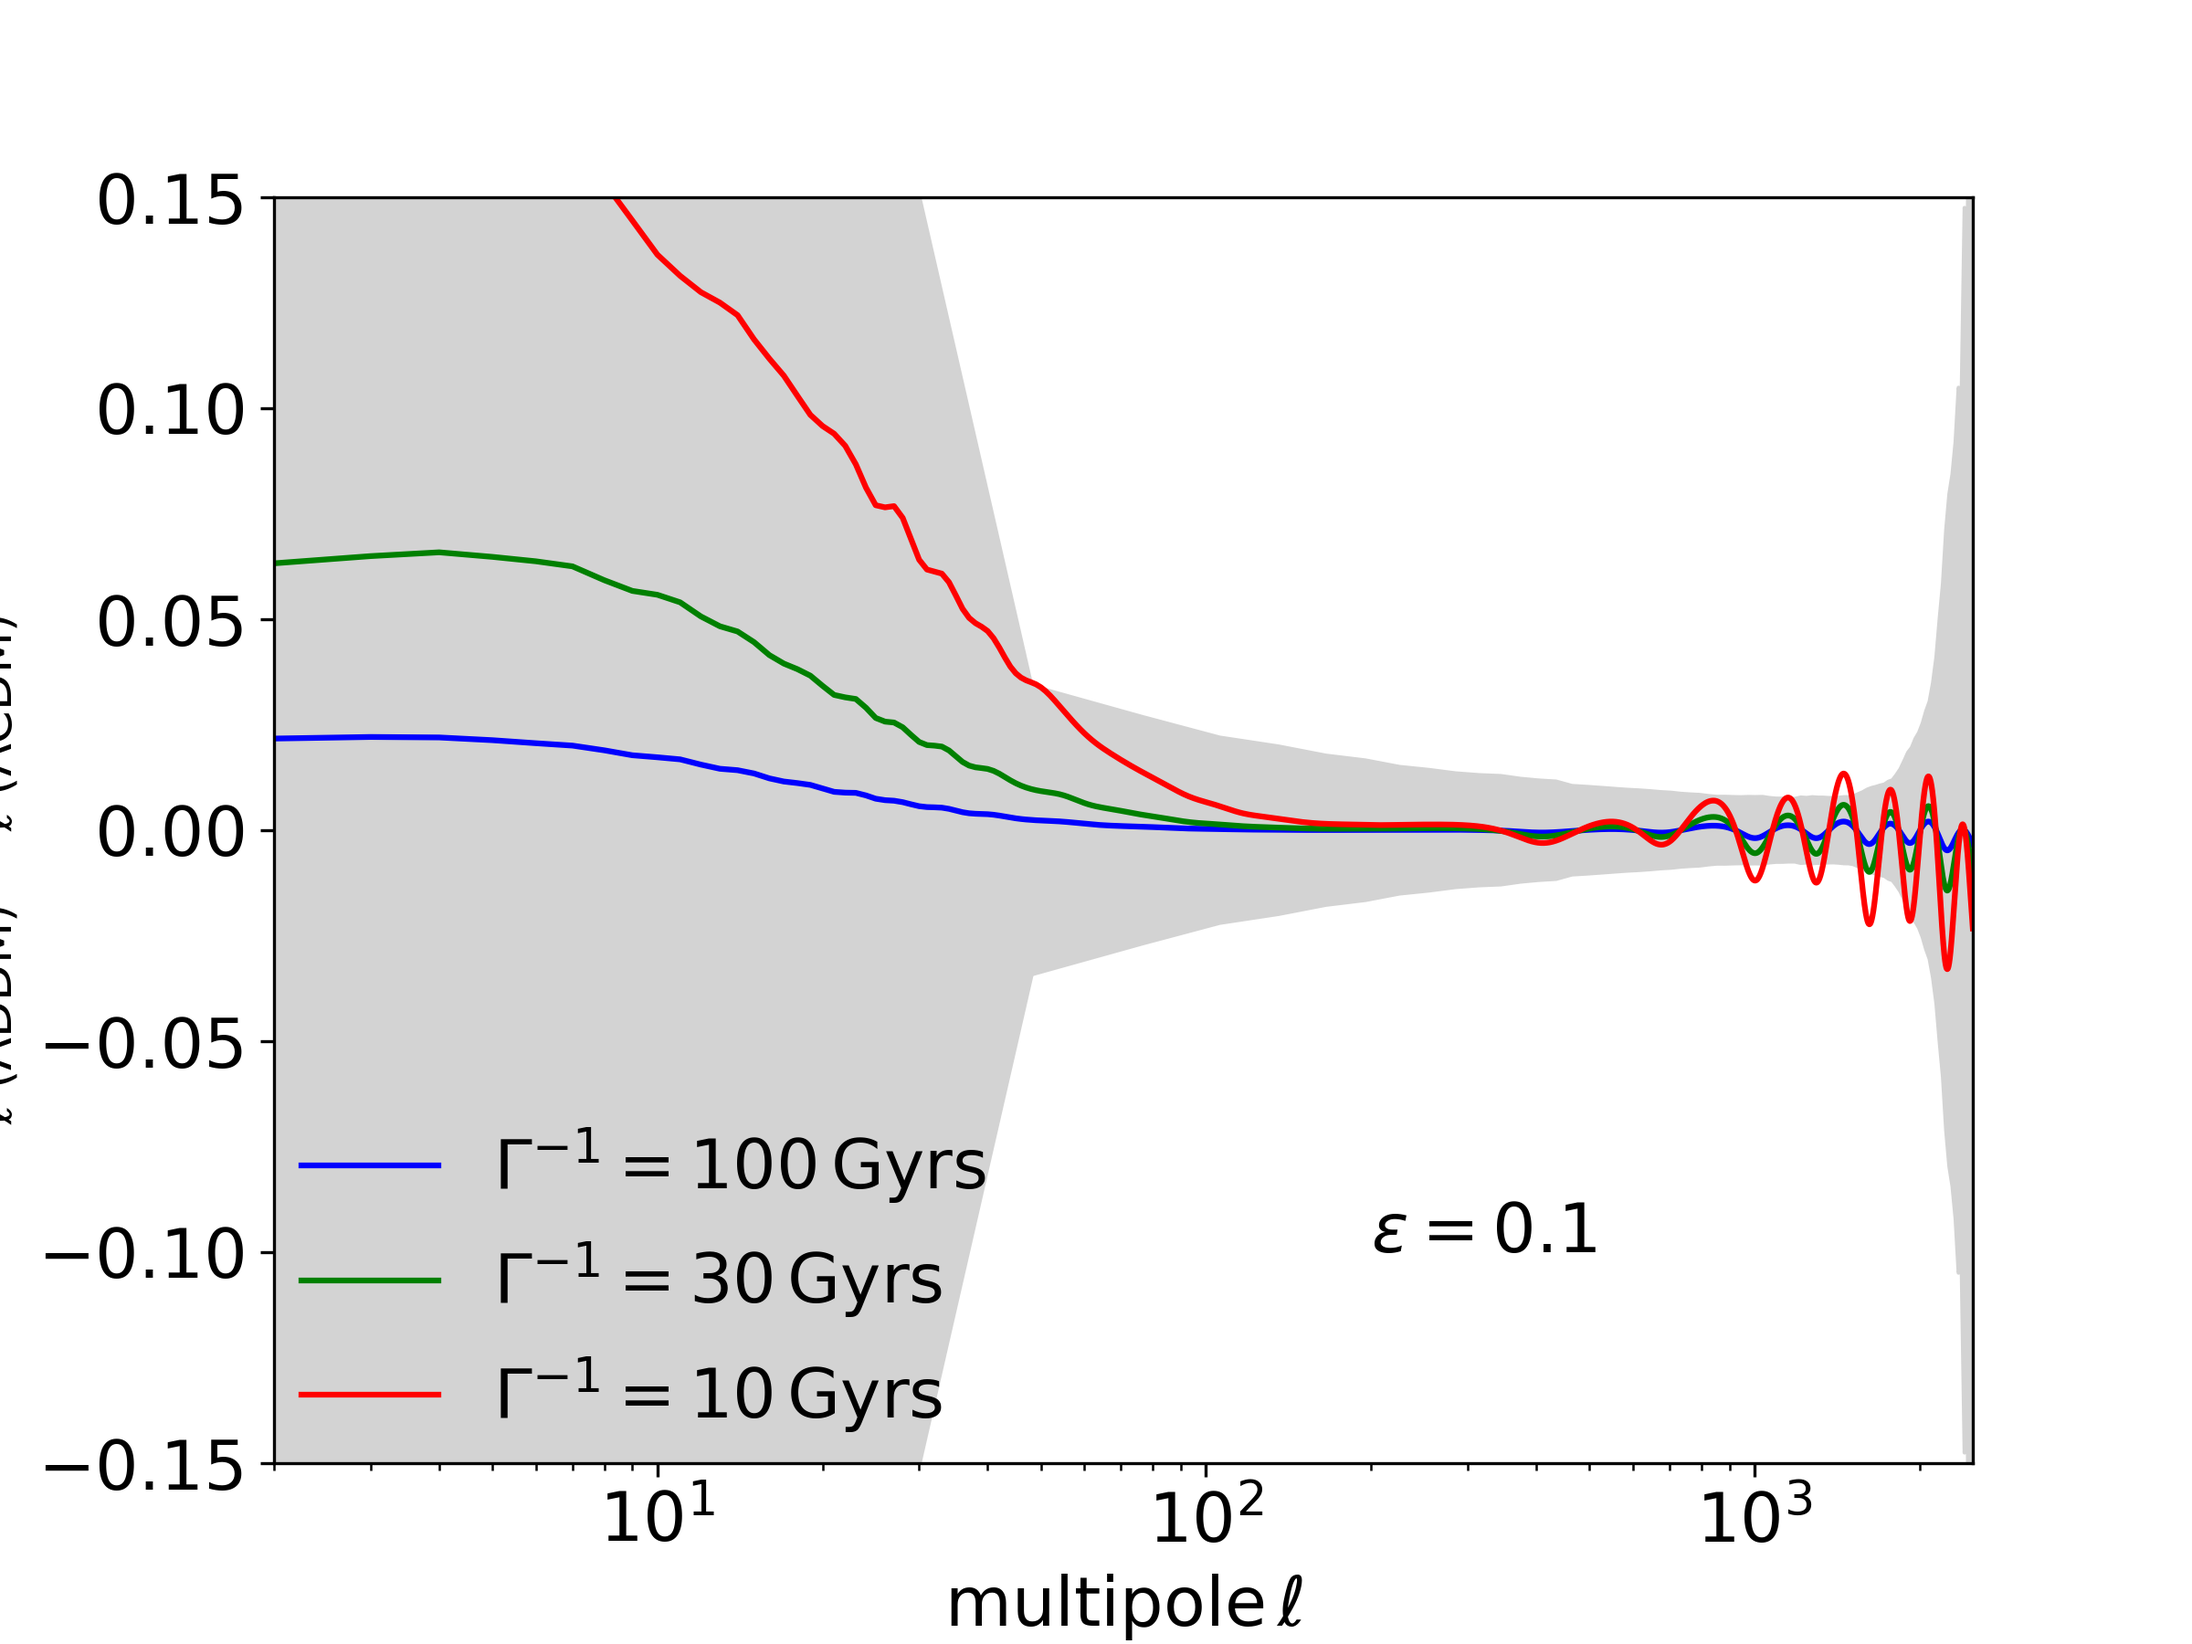
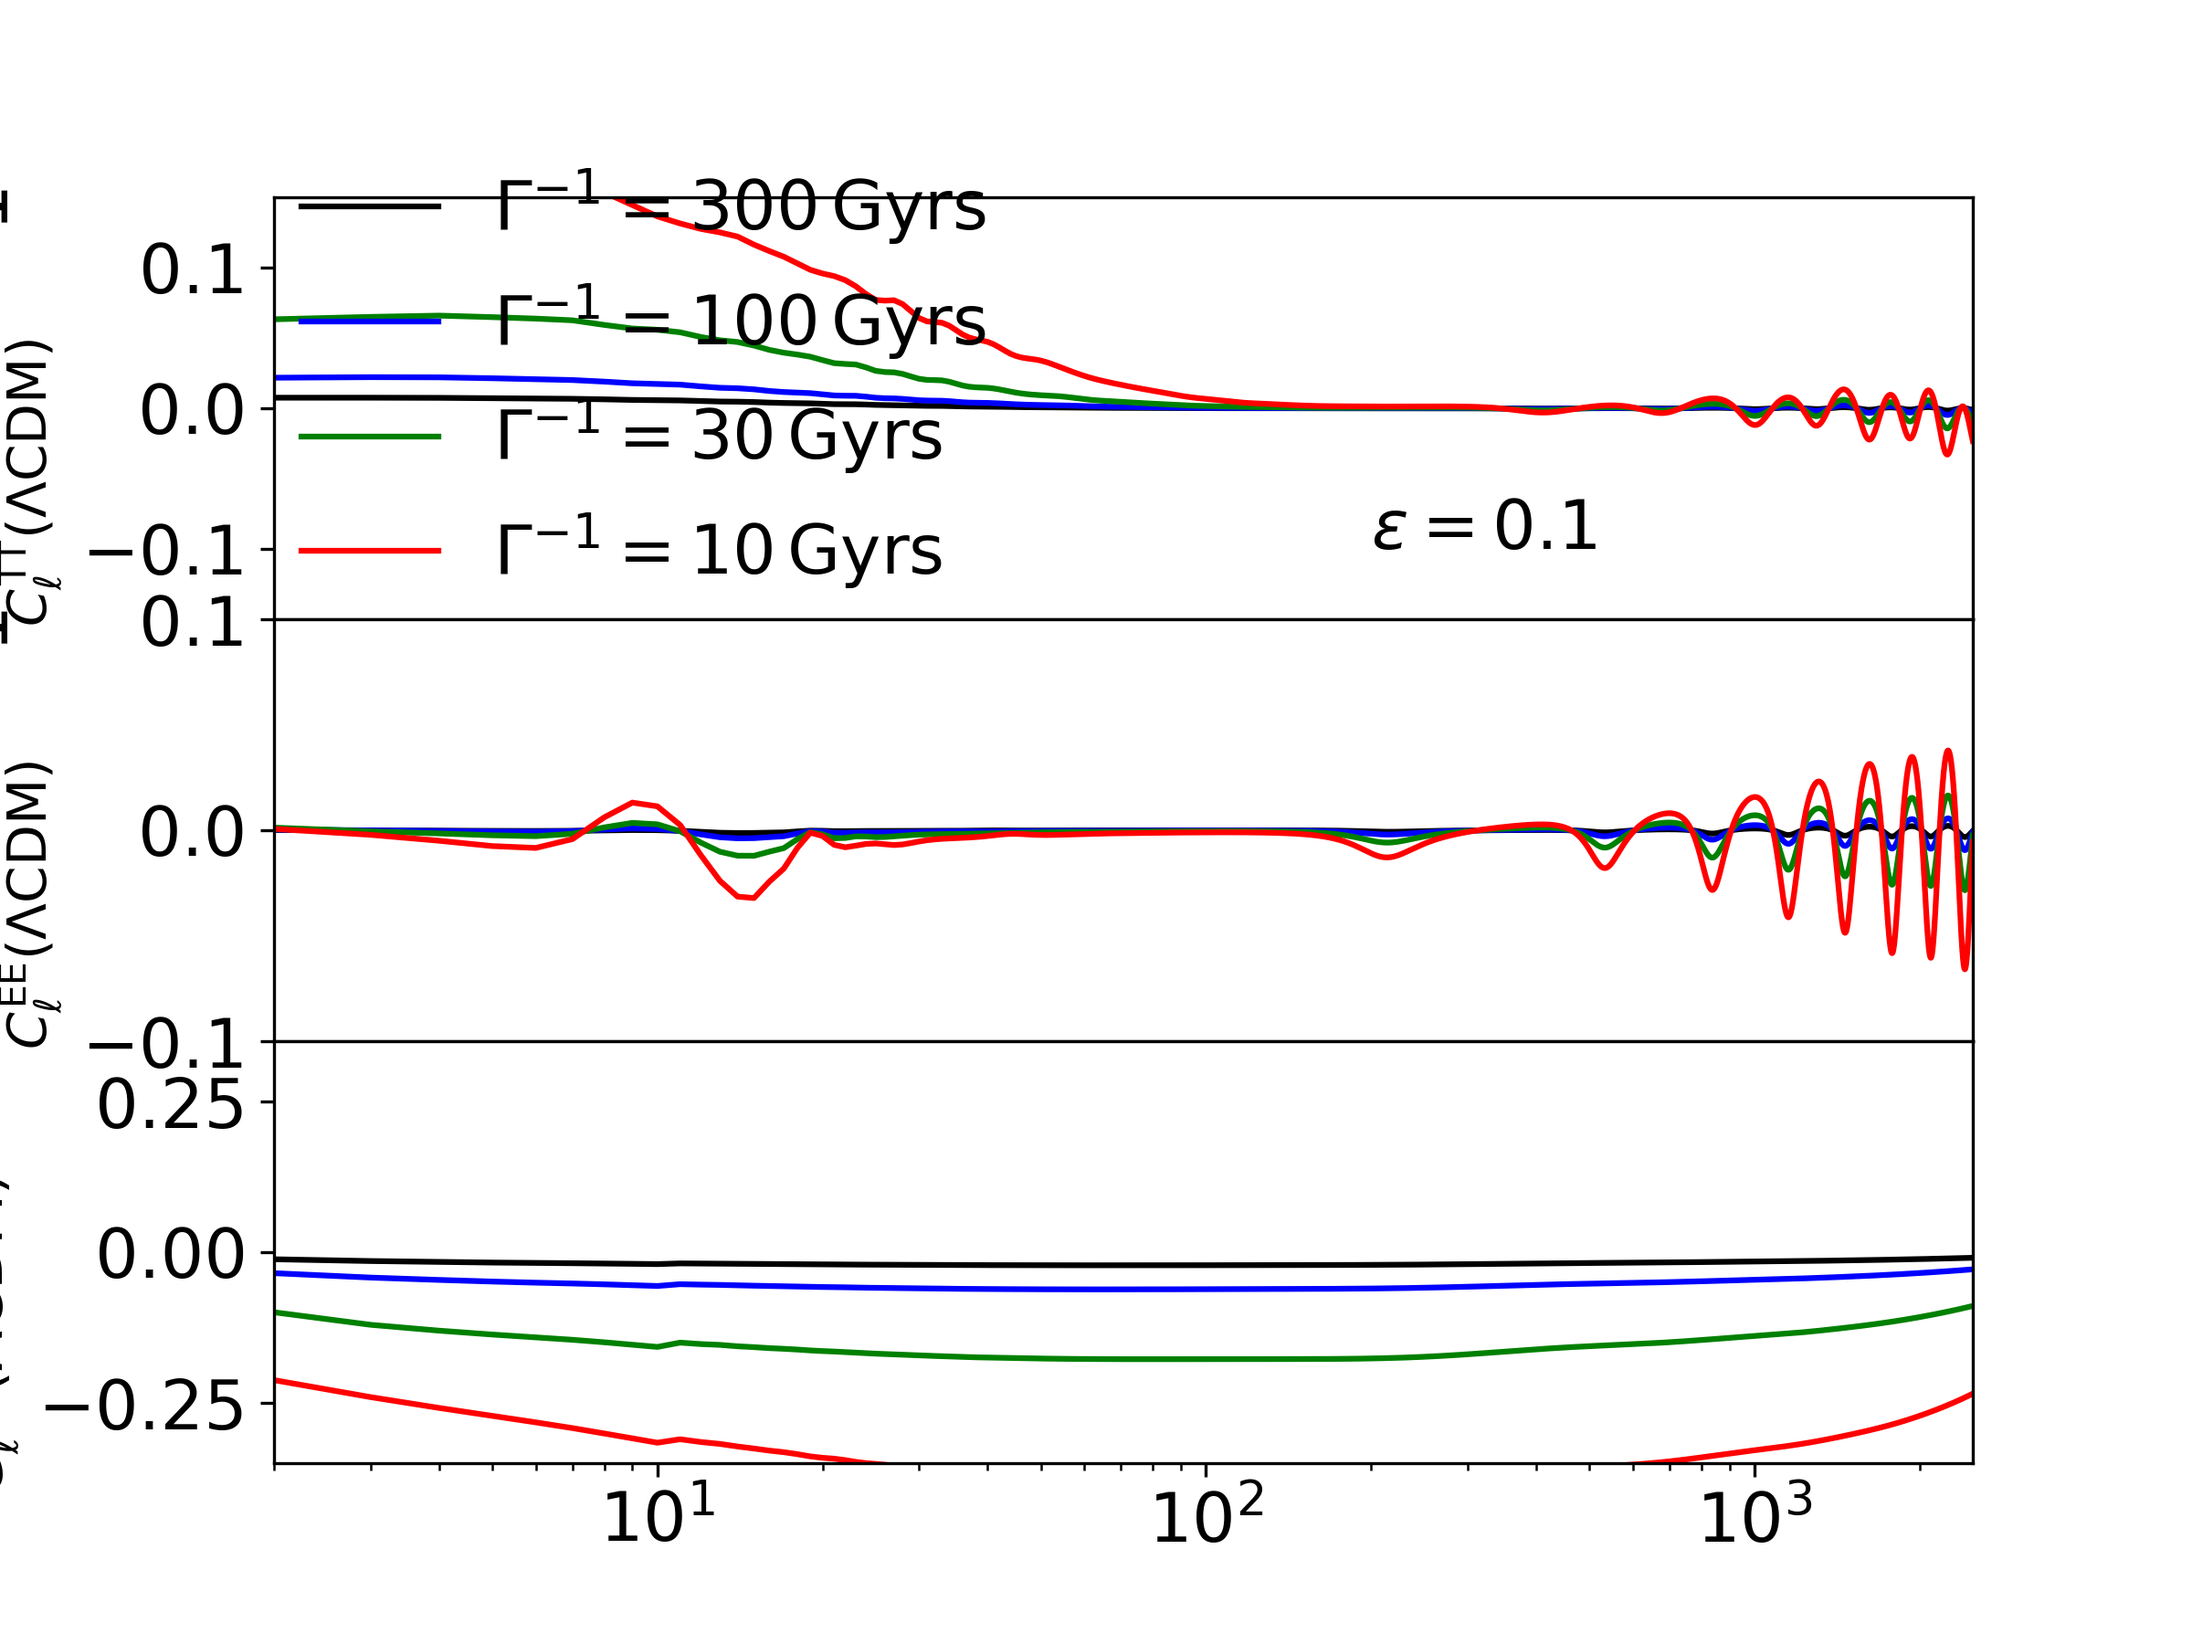
update

diff --git a/CLASS_DCDM_vs_LCDM.py b/CLASS_DCDM_vs_LCDM.py
@@ -5,7 +5,7 @@ from classy import Class
 from scipy.interpolate import interp1d
 
 
-plt.rcParams["figure.figsize"] = [8.0,6.0]
+plt.rcParams["figure.figsize"] = [7.0,9.0]
 
 import time
 start_time = time.time()
@@ -13,9 +13,10 @@ start_time = time.time()
 
 plot_type = 0 
 
-lTT,DlTT_mean,DlTT_error_minus,DlTT_error_plus,DlTT_bestfit= np.loadtxt("error_Planck/Planck2018_errorTT.txt",unpack=True)
-lEE,DlEE_mean,DlEE_error_minus,DlEE_error_plus,DlEE_bestfit= np.loadtxt("error_Planck/Planck2018_errorEE.txt",unpack=True)
-lTE,DlTE_mean,DlTE_error_minus,DlTE_error_plus,DlTE_bestfit= np.loadtxt("error_Planck/Planck2018_errorTE.txt",unpack=True)
+#lTT,DlTT_mean,DlTT_error_minus,DlTT_error_plus,DlTT_bestfit= np.loadtxt("error_Planck/Planck2018_errorTT.txt",unpack=True)
+#lEE,DlEE_mean,DlEE_error_minus,DlEE_error_plus,DlEE_bestfit= np.loadtxt("error_Planck/Planck2018_errorEE.txt",unpack=True)
+#lTE,DlTE_mean,DlTE_error_minus,DlTE_error_plus,DlTE_bestfit= np.loadtxt("error_Planck/Planck2018_errorTE.txt",unpack=True)
+
 
 #%% compute reference
 
@@ -28,7 +29,6 @@ else:
     
     Gamma_dcdm = np.array([3.2679,9.8039, 32.679, 98.0392])
     epsilon =  np.array([0.1,0.1,0.1, 0.1])
-
 
 
 
@@ -172,9 +172,9 @@ for i in range(4):
         Omega_dcdm_ini =0.1194/(M.h()**2) 
         analytical_ratio = (Omega_dcdm_ini/derived['Omega_m'])*(1.0-np.exp(-derived['age']/tau[0]))*np.sqrt(1.0-2.0*epsilon[0])
         print("and its analytical formula gives %f"%analytical_ratio)
+        
     elif i==1:
         clM_1 = M.lensed_cl(2500)
-#        clM_1 = M.raw_cl(2500)
         ll_DCDM_1 = clM_1['ell'][2:]
         clTT_DCDM_1 = clM_1['tt'][2:]
         clEE_DCDM_1 = clM_1['ee'][2:]
@@ -195,7 +195,6 @@ for i in range(4):
         print("and its analytical formula gives %f"%analytical_ratio)
     elif i==2:
         clM_2 = M.lensed_cl(2500)
-#        clM_2 = M.raw_cl(2500)
         ll_DCDM_2 = clM_2['ell'][2:]
         clTT_DCDM_2 = clM_2['tt'][2:]
         clEE_DCDM_2 = clM_2['ee'][2:]
@@ -216,7 +215,6 @@ for i in range(4):
         print("and its analytical formula gives %f"%analytical_ratio)
     else:
         clM_3 = M.lensed_cl(2500)
-#        clM_2 = M.raw_cl(2500)
         ll_DCDM_3 = clM_3['ell'][2:]
         clTT_DCDM_3 = clM_3['tt'][2:]
         clEE_DCDM_3 = clM_3['ee'][2:]
@@ -335,104 +333,104 @@ print("~~~~~ready to plot~~~~~")
 #plot
 
 ##create plot
-ax_1 = plt.subplot(111)
-#ax_1 = plt.subplot(311)
-#ax_2 = plt.subplot(312, sharex = ax_1)
-#ax_3 = plt.subplot(313, sharex = ax_2)
-#plt.subplots_adjust(hspace=0)
+
+ax_1 = plt.subplot(311)
+ax_2 = plt.subplot(312, sharex = ax_1)
+ax_3 = plt.subplot(313, sharex = ax_2)
+plt.subplots_adjust(hspace=0)
 
 ax_1.set_ylim([-0.15,0.15])
-#ax_2.set_ylim([-0.1,0.1])
-#ax_3.set_ylim([-0.35,0.35])
+ax_2.set_ylim([-0.1,0.1])
+ax_3.set_ylim([-0.35,0.35])
 
 
 
 ax_1.set_xlim([2,2500])
-#ax_2.set_xlim([2,2500])
-#ax_3.set_xlim([2,2500])
+ax_2.set_xlim([2,2500])
+ax_3.set_xlim([2,2500])
 
 
-#ax_3.tick_params(axis='both', which='minor', labelsize=12)
-ax_1.tick_params(axis='both', which='minor', labelsize=12)
-
+ax_3.tick_params(axis='both', which='minor', labelsize=12)
 
 #Planck error bars
-
 # FOR TT
-l_cosmic_variance_1 = np.linspace(0,30,1000)
-l_cosmic_variance_2 = np.linspace(30,48,2)
-slope =np.array([0.15,0.0343])
-ax_1.fill_between(l_cosmic_variance_1, -0.18,0.18, color='lightgray' )
-ax_1.fill_between(l_cosmic_variance_2, -slope, slope, color='lightgray' )
-ax_1.fill_between(lTT, -(DlTT_error_plus)/DlTT_mean, +(DlTT_error_plus)/DlTT_mean, color='lightgray')
+#l_cosmic_variance_1 = np.linspace(0,30,1000)
+#l_cosmic_variance_2 = np.linspace(30,48,2)
+#slope =np.array([0.15,0.0343])
+#ax_1.fill_between(l_cosmic_variance_1, -0.18,0.18, color='lightgray' )
+#ax_1.fill_between(l_cosmic_variance_2, -slope, slope, color='lightgray' )
+#ax_1.fill_between(lTT, -(DlTT_error_plus)/DlTT_mean, +(DlTT_error_plus)/DlTT_mean, color='lightgray')
 
 
 
 if plot_type ==1:
     
     ax_1.semilogx(ll_DCDM_0,fTT_ourcode_0(ll_DCDM_0)/fTT_ref(ll_DCDM_0)-1,'r',label=r'$\varepsilon = %.1f$'%epsilon[0])
-#    ax_2.semilogx(ll_DCDM_0,fEE_ourcode_0(ll_DCDM_0)/fEE_ref(ll_DCDM_0)-1,'r',label=r'$\varepsilon = %.1f$'%epsilon[0])
-#    ax_3.semilogx(ll_DCDM_0,fphiphi_ourcode_0(ll_DCDM_0)/fphiphi_ref(ll_DCDM_0)-1,'r',label=r'$\varepsilon = %.1f$'%epsilon[0])
+    ax_2.semilogx(ll_DCDM_0,fEE_ourcode_0(ll_DCDM_0)/fEE_ref(ll_DCDM_0)-1,'r',label=r'$\varepsilon = %.1f$'%epsilon[0])
+    ax_3.semilogx(ll_DCDM_0,fphiphi_ourcode_0(ll_DCDM_0)/fphiphi_ref(ll_DCDM_0)-1,'r',label=r'$\varepsilon = %.1f$'%epsilon[0])
     
     ax_1.semilogx(ll_DCDM_0,fTT_ourcode_1(ll_DCDM_0)/fTT_ref(ll_DCDM_0)-1,'g',label=r'$\varepsilon = %.1f$'%epsilon[1])
-#    ax_2.semilogx(ll_DCDM_0,fEE_ourcode_1(ll_DCDM_0)/fEE_ref(ll_DCDM_0)-1,'g',label=r'$\varepsilon = %.1f$'%epsilon[1])
-#    ax_3.semilogx(ll_DCDM_0,fphiphi_ourcode_1(ll_DCDM_0)/fphiphi_ref(ll_DCDM_0)-1,'g',label=r'$\varepsilon = %.1f$'%epsilon[1])
+    ax_2.semilogx(ll_DCDM_0,fEE_ourcode_1(ll_DCDM_0)/fEE_ref(ll_DCDM_0)-1,'g',label=r'$\varepsilon = %.1f$'%epsilon[1])
+    ax_3.semilogx(ll_DCDM_0,fphiphi_ourcode_1(ll_DCDM_0)/fphiphi_ref(ll_DCDM_0)-1,'g',label=r'$\varepsilon = %.1f$'%epsilon[1])
 
     ax_1.semilogx(ll_DCDM_0,fTT_ourcode_2(ll_DCDM_0)/fTT_ref(ll_DCDM_0)-1,'b',label=r'$\varepsilon = %.2f$'%epsilon[2])
-#    ax_2.semilogx(ll_DCDM_0,fEE_ourcode_2(ll_DCDM_0)/fEE_ref(ll_DCDM_0)-1,'b',label=r'$\varepsilon = %.2f$'%epsilon[2])
-#    ax_3.semilogx(ll_DCDM_0,fphiphi_ourcode_2(ll_DCDM_0)/fphiphi_ref(ll_DCDM_0)-1,'b',label=r'$\varepsilon = %.2f$'%epsilon[2])
+    ax_2.semilogx(ll_DCDM_0,fEE_ourcode_2(ll_DCDM_0)/fEE_ref(ll_DCDM_0)-1,'b',label=r'$\varepsilon = %.2f$'%epsilon[2])
+    ax_3.semilogx(ll_DCDM_0,fphiphi_ourcode_2(ll_DCDM_0)/fphiphi_ref(ll_DCDM_0)-1,'b',label=r'$\varepsilon = %.2f$'%epsilon[2])
     
-#    ax_1.semilogx(ll_DCDM_0,fTT_ourcode_3(ll_DCDM_0)/fTT_ref(ll_DCDM_0)-1,'k',label=r'$\varepsilon = %.3f$'%epsilon[3])
-#    ax_2.semilogx(ll_DCDM_0,fEE_ourcode_3(ll_DCDM_0)/fEE_ref(ll_DCDM_0)-1,'k',label=r'$\varepsilon = %.3f$'%epsilon[3])
-#    ax_3.semilogx(ll_DCDM_0,fphiphi_ourcode_3(ll_DCDM_0)/fphiphi_ref(ll_DCDM_0)-1,'k',label=r'$\varepsilon = %.3f$'%epsilon[3])
+    ax_1.semilogx(ll_DCDM_0,fTT_ourcode_3(ll_DCDM_0)/fTT_ref(ll_DCDM_0)-1,'k',label=r'$\varepsilon = %.3f$'%epsilon[3])
+    ax_2.semilogx(ll_DCDM_0,fEE_ourcode_3(ll_DCDM_0)/fEE_ref(ll_DCDM_0)-1,'k',label=r'$\varepsilon = %.3f$'%epsilon[3])
+    ax_3.semilogx(ll_DCDM_0,fphiphi_ourcode_3(ll_DCDM_0)/fphiphi_ref(ll_DCDM_0)-1,'k',label=r'$\varepsilon = %.3f$'%epsilon[3])
 
 else:
     
-#    ax_1.semilogx(ll_DCDM_0,fTT_ourcode_0(ll_DCDM_0)/fTT_ref(ll_DCDM_0)-1,'k',label=r'$\Gamma^{-1} = %.0f \, \mathrm{Gyrs}$'%tau[0])
-#    ax_2.semilogx(ll_DCDM_0,fEE_ourcode_0(ll_DCDM_0)/fEE_ref(ll_DCDM_0)-1,'k',label=r'$\Gamma^{-1} = %.0f \, \mathrm{Gyrs}$'%tau[0])
-#    ax_3.semilogx(ll_DCDM_0,fphiphi_ourcode_0(ll_DCDM_0)/fphiphi_ref(ll_DCDM_0)-1,'k',label=r'$\Gamma^{-1} = %.0f \, \mathrm{Gyrs}$'%tau[0])
+    ax_1.semilogx(ll_DCDM_0,fTT_ourcode_0(ll_DCDM_0)/fTT_ref(ll_DCDM_0)-1,'k',label=r'$\Gamma^{-1} = %.0f \, \mathrm{Gyrs}$'%tau[0])
+    ax_2.semilogx(ll_DCDM_0,fEE_ourcode_0(ll_DCDM_0)/fEE_ref(ll_DCDM_0)-1,'k',label=r'$\Gamma^{-1} = %.0f \, \mathrm{Gyrs}$'%tau[0])
+    ax_3.semilogx(ll_DCDM_0,fphiphi_ourcode_0(ll_DCDM_0)/fphiphi_ref(ll_DCDM_0)-1,'k',label=r'$\Gamma^{-1} = %.0f \, \mathrm{Gyrs}$'%tau[0])
 
     ax_1.semilogx(ll_DCDM_0,fTT_ourcode_1(ll_DCDM_0)/fTT_ref(ll_DCDM_0)-1,'b',label=r'$\Gamma^{-1} = %.0f \, \mathrm{Gyrs}$'%tau[1])
-#    ax_2.semilogx(ll_DCDM_0,fEE_ourcode_1(ll_DCDM_0)/fEE_ref(ll_DCDM_0)-1,'b',label=r'$\Gamma^{-1} = %.0f \, \mathrm{Gyrs}$'%tau[1])
-#    ax_3.semilogx(ll_DCDM_0,fphiphi_ourcode_1(ll_DCDM_0)/fphiphi_ref(ll_DCDM_0)-1,'b',label=r'$\Gamma^{-1} = %.0f \, \mathrm{Gyrs}$'%tau[1])
+    ax_2.semilogx(ll_DCDM_0,fEE_ourcode_1(ll_DCDM_0)/fEE_ref(ll_DCDM_0)-1,'b',label=r'$\Gamma^{-1} = %.0f \, \mathrm{Gyrs}$'%tau[1])
+    ax_3.semilogx(ll_DCDM_0,fphiphi_ourcode_1(ll_DCDM_0)/fphiphi_ref(ll_DCDM_0)-1,'b',label=r'$\Gamma^{-1} = %.0f \, \mathrm{Gyrs}$'%tau[1])
 
     ax_1.semilogx(ll_DCDM_0,fTT_ourcode_2(ll_DCDM_0)/fTT_ref(ll_DCDM_0)-1,'g',label=r'$\Gamma^{-1} = %.0f \, \mathrm{Gyrs}$'%tau[2])
-#    ax_2.semilogx(ll_DCDM_0,fEE_ourcode_2(ll_DCDM_0)/fEE_ref(ll_DCDM_0)-1,'g',label=r'$$\Gamma^{-1} = %.0f \, \mathrm{Gyrs}$'%tau[2])
-#    ax_3.semilogx(ll_DCDM_0,fphiphi_ourcode_2(ll_DCDM_0)/fphiphi_ref(ll_DCDM_0)-1,'g',label=r'$$\Gamma^{-1} = %.0f \, \mathrm{Gyrs}$'%tau[2])
+    ax_2.semilogx(ll_DCDM_0,fEE_ourcode_2(ll_DCDM_0)/fEE_ref(ll_DCDM_0)-1,'g',label=r'$$\Gamma^{-1} = %.0f \, \mathrm{Gyrs}$'%tau[2])
+    ax_3.semilogx(ll_DCDM_0,fphiphi_ourcode_2(ll_DCDM_0)/fphiphi_ref(ll_DCDM_0)-1,'g',label=r'$$\Gamma^{-1} = %.0f \, \mathrm{Gyrs}$'%tau[2])
 
     ax_1.semilogx(ll_DCDM_0,fTT_ourcode_3(ll_DCDM_0)/fTT_ref(ll_DCDM_0)-1,'r',label=r'$\Gamma^{-1} = %.0f \, \mathrm{Gyrs}$'%tau[3])
-#    ax_2.semilogx(ll_DCDM_0,fEE_ourcode_3(ll_DCDM_0)/fEE_ref(ll_DCDM_0)-1,'r',label=r'$\Gamma^{-1} = %.0f \, \mathrm{Gyrs}$'%tau[3])
-#    ax_3.semilogx(ll_DCDM_0,fphiphi_ourcode_3(ll_DCDM_0)/fphiphi_ref(ll_DCDM_0)-1,'r',label=r'$\Gamma^{-1} = %.0f \, \mathrm{Gyrs}$'%tau[3])
+    ax_2.semilogx(ll_DCDM_0,fEE_ourcode_3(ll_DCDM_0)/fEE_ref(ll_DCDM_0)-1,'r',label=r'$\Gamma^{-1} = %.0f \, \mathrm{Gyrs}$'%tau[3])
+    ax_3.semilogx(ll_DCDM_0,fphiphi_ourcode_3(ll_DCDM_0)/fphiphi_ref(ll_DCDM_0)-1,'r',label=r'$\Gamma^{-1} = %.0f \, \mathrm{Gyrs}$'%tau[3])
 
 
 
 
 #ax_3.set_xlabel(r'$\mathrm{multipole} \, \ell$',fontsize=15)
 ax_1.set_xlabel(r'$\mathrm{multipole} \, \ell$',fontsize=18)
-ax_1.set_ylabel(r'$C_{\ell \ (\Lambda \mathrm{DDM}) }^\mathrm{TT}/C_{\ell \ (\Lambda \mathrm{CDM} )}^\mathrm{TT} -1$',fontsize=18)
-#ax_1.set_ylabel(r'$\frac{C_\ell^\mathrm{TT}(\Lambda \mathrm{DDM})}{C_\ell^\mathrm{TT}(\Lambda \mathrm{CDM} )} -1$',fontsize=20)
-#ax_2.set_ylabel(r'$\frac{C_\ell^\mathrm{EE}(\Lambda \mathrm{DDM})}{C_\ell^\mathrm{EE}(\Lambda \mathrm{CDM} )} -1$',fontsize=20)
-#ax_3.set_ylabel(r'$\frac{C_\ell^{\phi \phi}(\Lambda \mathrm{DDM})}{C_\ell^{\phi \phi}(\Lambda \mathrm{CDM})} -1$',fontsize=22)
+ax_1.set_ylabel(r'$\frac{C_\ell^\mathrm{TT}(\Lambda \mathrm{DDM})}{C_\ell^\mathrm{TT}(\Lambda \mathrm{CDM} )} -1$',fontsize=20)
+ax_2.set_ylabel(r'$\frac{C_\ell^\mathrm{EE}(\Lambda \mathrm{DDM})}{C_\ell^\mathrm{EE}(\Lambda \mathrm{CDM} )} -1$',fontsize=20)
+ax_3.set_ylabel(r'$\frac{C_\ell^{\phi \phi}(\Lambda \mathrm{DDM})}{C_\ell^{\phi \phi}(\Lambda \mathrm{CDM})} -1$',fontsize=22)
 
 
-#ax_3.tick_params(axis="x", labelsize=18)
-ax_1.tick_params(axis="x", labelsize=18)
+ax_3.tick_params(axis="x", labelsize=18)
 ax_1.tick_params(axis="y", labelsize=18)
-#ax_2.tick_params(axis="y", labelsize=18)
-#ax_3.tick_params(axis="y", labelsize=18)
+ax_2.tick_params(axis="y", labelsize=18)
+ax_3.tick_params(axis="y", labelsize=18)
 
 
 if plot_type == 1:
-    ax_1.text(200, -0.1, r'$\Gamma^{-1} = %.0f \,  \mathrm{Gyrs}$'%tau[0], fontsize =18)
+    ax_1.text(200, -0.1, r'$\Gamma^{-1} = %.0f \,  \mathrm{Gyrs}$'%tau[0], fontsize =12)
     
 else:
-    ax_1.text(200, -0.1, r'$\varepsilon = %.1f$'%epsilon[0], fontsize =18)
+    ax_1.text(200, -0.1, r'$\varepsilon = %.1f$'%epsilon[0], fontsize =12)
     
-#ax_1.legend(frameon=False,fontsize =12,loc='lower left',borderaxespad=0., ncol=2)
-ax_1.legend(frameon=False,fontsize =18,loc='lower left',borderaxespad=0., ncol=1)
+ax_1.legend(frameon=False,fontsize =12,loc='lower left',borderaxespad=0., ncol=2)
 
 
-plt.savefig('cl_dcdm_full_several_gamma.png',dpi=300)
+
+
+if plot_type ==1:
+    plt.savefig('cl_dcdm_full_several_epsilon.png',dpi=300,bbox_inches='tight')
+else:
+    plt.savefig('cl_dcdm_full_several_gamma.png',dpi=300,bbox_inches='tight')
+
 
 plt.show()
 plt.clf()
@@ -510,8 +508,6 @@ if plot_type ==1:
 else:
     axe_1.text(0.13e-3, -0.2,  r'$\varepsilon = %.1f$'%epsilon[0], fontsize =12)
 
-#axe_1.text(0.7e-2, -0.8,  r'$\bf{z=0}$', fontsize =12)
-#axe_2.text(0.7e-2, -0.3,  r'$\bf{z=3}$', fontsize =12)
 
 axe_1.text(0.7e-2, -0.8,  r'$\bf{z=0}$', fontsize =12)
 axe_2.text(0.7e-2, -0.4,  r'$\bf{z=%.0f}$'%zhigh, fontsize =12)

diff --git a/source/perturbations.c b/source/perturbations.c
@@ -9439,7 +9439,7 @@ int compute_dfdlnq_ncdm(  struct precision *ppr,
     evaluated at the time of decay a_D (equal to present time if lifetime >age universe) */
     pba->k_fss_wdm = sqrt(3./2.)*a_D*H_D/sqrt(ca2_ncdm);
    //  printf("k_fss_wdm =%f Mpc^{-1}\n",pba->k_fss_wdm );
-   printf("At decay a_D =%f, tau = %f Mpc \n",a_D, tau);
+//   printf("At decay a_D =%f, tau = %f Mpc \n",a_D, tau);
     //Note: works well for lifetime > age_universe, but not on the contrary, maybe I should evaluate it before a_D
     // for lifetimes smaller than age of universe, maybe I should evaluate at a_nr, smaller than a_D by some velocity factors (see page 13 in Aoyama paper)
 
